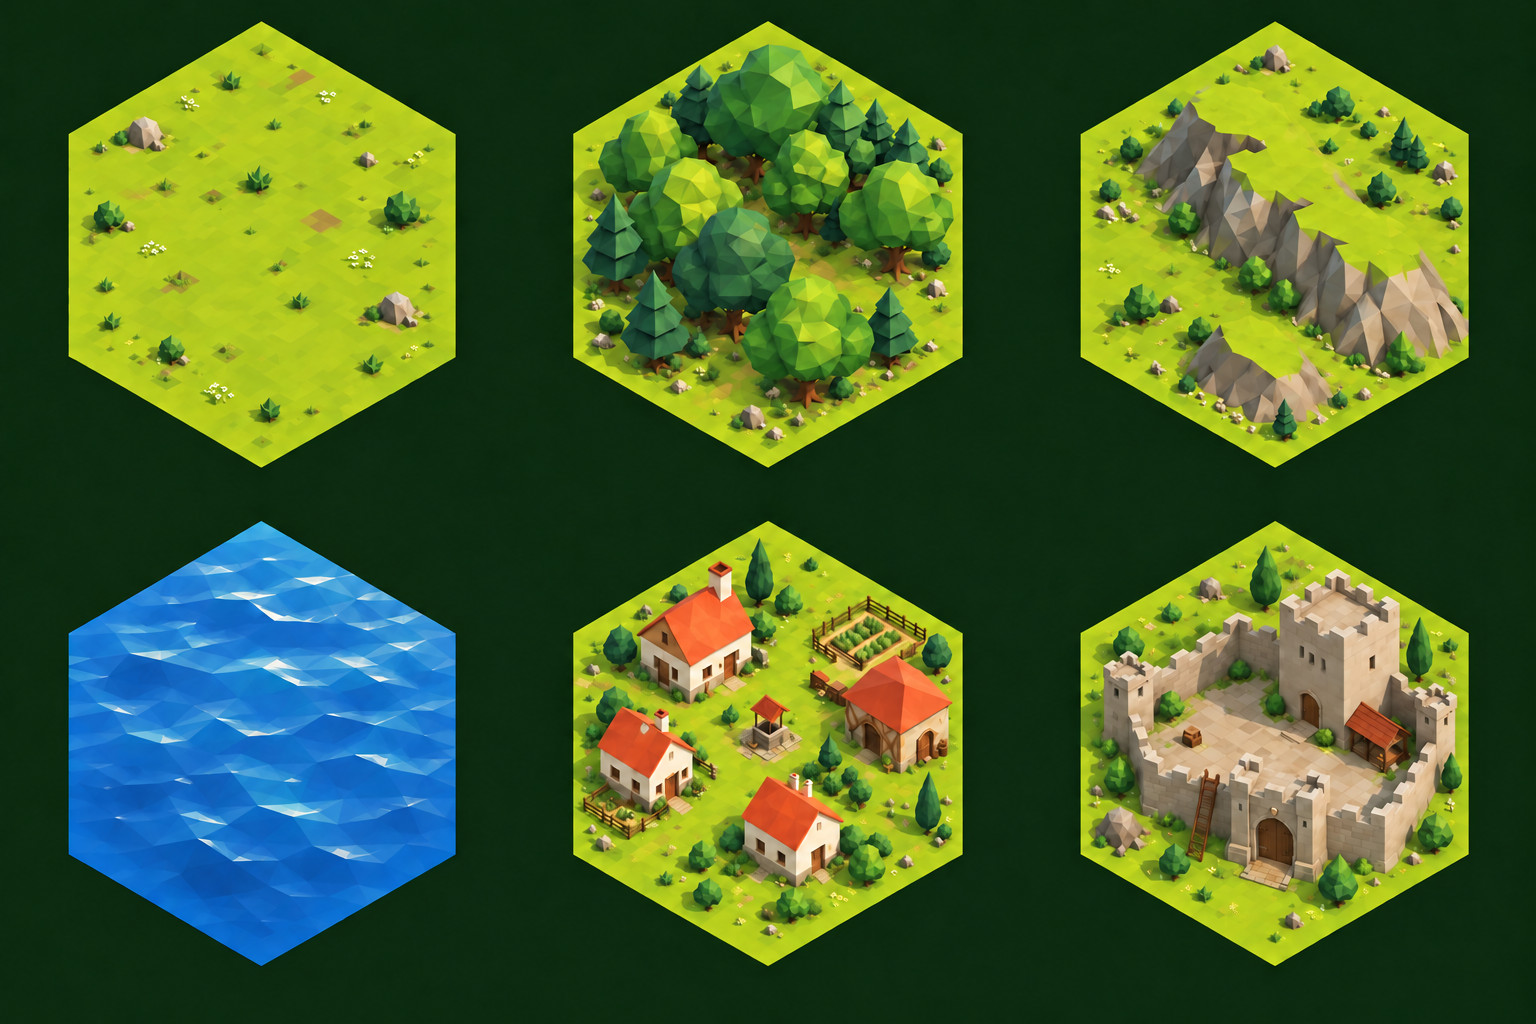
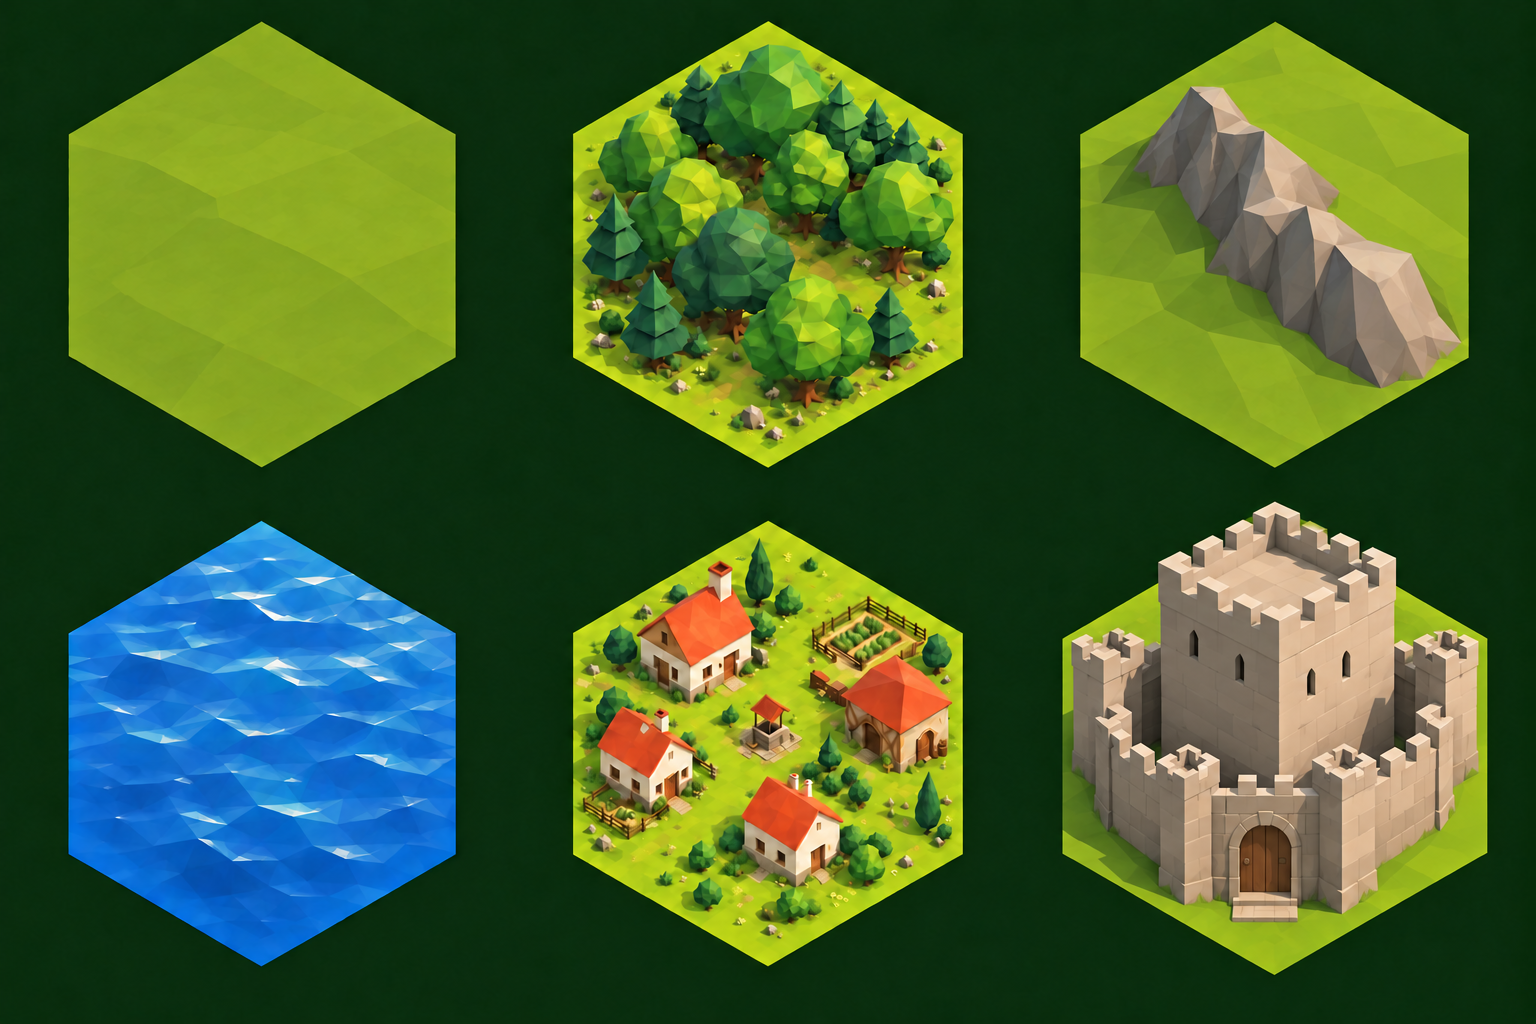
Quiet terrain textures and enlarge keeps

diff --git a/hex-command/src/presentation/art.ts b/hex-command/src/presentation/art.ts
@@ -63,7 +63,7 @@ const terrainSheets = {
   normal: {
     width: 1536,
     height: 1024,
-    revision: "b97cf824c51e",
+    revision: "36244e2b44ee",
     frames: [
       {
         x: 76.0,
@@ -100,7 +100,7 @@ const terrainSheets = {
   "low-poly": {
     width: 1536,
     height: 1024,
-    revision: "2cee60de0b7d",
+    revision: "4ba16129dada",
     frames: [
       {
         x: 41.0,

diff --git a/hex-command/README.md b/hex-command/README.md
@@ -44,9 +44,11 @@ current battle intact when switching.
 Terrain uses dedicated flat pointy-top hex artwork, rendered with square crops
 and uniform scaling, clipped to the board edges. Terrain sheets render with native
 SVG images, including forest brightness and pixel-art scaling. No mesh warping is used. Unit sheets contain teal player and crimson enemy rows with natural skin tones.
-Normal terrain uses softly painted meadow cover, connected leafy woodland,
-weathered grassy ridges, textured water, and small rural hamlets. Low-poly uses
-restrained ground facets, varied groves, coherent ridges, and compact settlements.
+Normal terrain uses quiet muted fields, connected leafy woodland, broad grassy
+ridges, textured water, and small rural hamlets. Low-poly uses a few broad ground
+facets, varied groves, coherent ridges, and compact settlements. Plains and hills
+keep their detail restrained at the game's 70-pixel tile size. Keeps use large
+central towers and substantial walls that remain readable behind units.
 Grass remains much shorter than trees and cottages in both styles. Plains,
 forests, and hills have no baked-in roads; settlement paths stay inside their
 tiles so arbitrary neighbors compose cleanly. Fortresses have neutral decoration;

diff --git a/hex-command/AGENTS.md b/hex-command/AGENTS.md
@@ -21,3 +21,6 @@
   settlement paths inside their tile and terrain ownership decoration neutral.
 - Normal and Low-poly ground cover uses believable proportions and distinct
   landscape compositions. Preserve Pixel artwork unless explicitly asked to change it.
+- Judge terrain at its actual 70-pixel render size, including with a unit on top.
+  Keep plains muted and low-detail, hills readable as broad landforms, and keeps
+  large enough to remain visibly substantial behind a 56- or 62-pixel unit.
